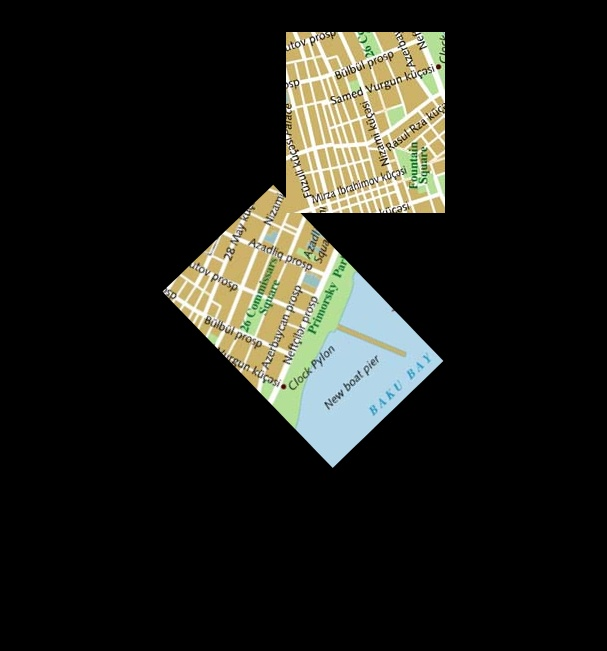
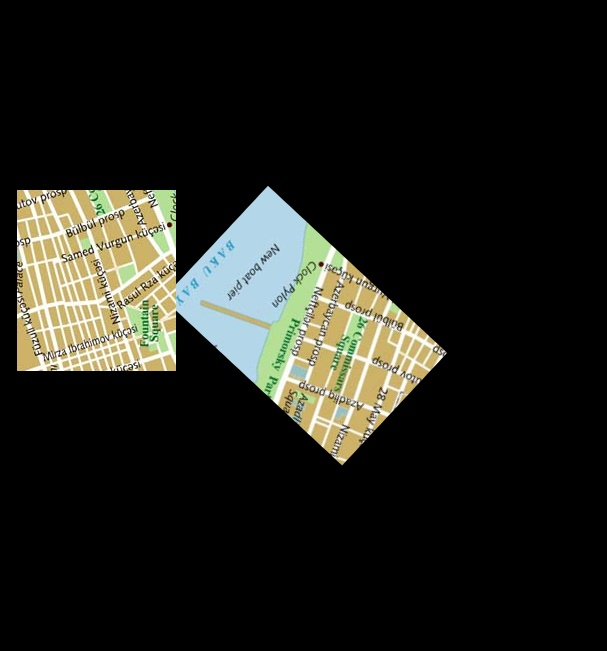
All the transformations are performed in Coordinate System

Changed region(s): [[0.0297, 0.0307, 0.7414, 0.7373]]

diff --git a/CoordinateSystem.py b/CoordinateSystem.py
@@ -21,6 +21,8 @@ class CoordinateSystem:
     rectangle1 = []
     rectangle2 = []
     centreOfRectangle2 = None
+    polygon1 = None
+    polygon2 = None
 
     def __init__(self,centre):
         self.centreOfRectangle2 = centre
@@ -30,6 +32,8 @@ class CoordinateSystem:
         # plt.clf()
         # plt.gca().invert_yaxis()
         self.rectangle1, self.rectangle2 = rectangles
+        self.polygon1 = Polygon(self.rectangle1)
+        self.polygon2 = Polygon(self.rectangle2)
         # rec1 = Polygon(self.rectangle1)	
         # rec2 = Polygon(self.rectangle2)	
         # x1, y1 =rec1.exterior.xy	
@@ -54,40 +58,23 @@ class CoordinateSystem:
         # end = time.time()
         # print("Rotate line: ",end-Start,"\n\n" )
         return rotated
-
-    def rotateTranslateCoordinates(self,coor,centreX,centreY,angle):
-        X,Y = coor
-        tempX = X - centreX
-        tempY = Y - centreY
-        rotatedX = tempX*math.cos(angle * math.pi/180) - tempY*math.sin(angle * math.pi/180)
-        rotatedY = tempX*math.sin(angle * math.pi/180) + tempY*math.cos(angle * math.pi/180)
-        x = rotatedX + centreX
-        y = rotatedY + centreY
-        return x,y
-
-    def rotateCornersOfImage2(self,angle):
-        # Start = time.time()
-        newRectangle = []
-        for coor in self.rectangle2:
-            newCorner = self.rotateTranslateCoordinates(coor,self.centreOfRectangle2[0],self.centreOfRectangle2[1],angle)
-            newRectangle.append(newCorner)
-        self.rectangle2 = newRectangle
-        # end = time.time()
-        # print("rotate corners: ",end-Start,"\n\n" )
     
     def shiftAnElement(self,geometric_figure, SHIFT_X,SHIFT_Y):
-        M = [1,0,0,1,-SHIFT_X,-SHIFT_Y]
+        M = [1,0,0,1,SHIFT_X,SHIFT_Y]
         rotated = affine_transform(geometric_figure,M)
         rotated = loads(dumps(rotated, rounding_precision=0))
         # x,y = rotated.coords.xy
         # plt.plot(x,y,color='magenta')
         return rotated
 
+    def transform(self,M,shape):
+        return affine_transform(shape,M)
+
     def get_intersection_polygon(self):
         # Start = time.time()
-        p1 = Polygon(self.rectangle1)
+        p1 = self.polygon1
         x1,y1= p1.exterior.xy
-        p2 = Polygon(self.rectangle2)
+        p2 = self.polygon2
         p2 = loads(dumps(p2, rounding_precision=0))
         x2,y2= p2.exterior.xy
         intersection = p1.intersection(p2)
@@ -97,9 +84,9 @@ class CoordinateSystem:
 
     def get_coordinates_in_polygon(self, polygon):
         #Start = time.time()
-        # p1 = Polygon(self.rectangle1)
-        # if (polygon.area <= p1.area*0.04):
-        #     return -1
+        p1 = Polygon(self.rectangle1)
+        if (polygon.area <= p1.area*0.04):
+            return -1
         polygon = loads(dumps(polygon, rounding_precision=0))
         rectangle = list(polygon.exterior.coords)
         bounds = polygon.bounds
@@ -139,7 +126,8 @@ class CoordinateSystem:
 
     def get_indecies_on_rotate(self, SHIFT_X, SHIFT_Y, thetha):
         if (thetha != 0):
-            self.rotateCornersOfImage2(thetha)
+            self.polygon2 = self.rotateElement(self.polygon2,thetha)
+        self.polygon1 = self.shiftAnElement(self.polygon1,SHIFT_X,SHIFT_Y)
         # x2, y2 =Polygon(self.rectangle2).exterior.xy	
         # plt.plot(x2, y2,color='red')
         intersection = self.get_intersection_polygon()
@@ -151,7 +139,7 @@ class CoordinateSystem:
         if coordintes_of_intersection == -1:
             return -1
         initialPolygon2 = self.rotateElement(coordintes_of_intersection,-thetha)
-        initialPolygon1 = self.shiftAnElement(coordintes_of_intersection,SHIFT_X,SHIFT_Y)
+        initialPolygon1 = self.shiftAnElement(coordintes_of_intersection,-SHIFT_X,-SHIFT_Y)
         # x2, y2 =initialPolygon2.coords.xy	
         # plt.plot(x2, y2,color='blue')
         numpy_coords_1 = self.get_numpy_coords(initialPolygon1)

diff --git a/ImageStitcher.py b/ImageStitcher.py
@@ -31,11 +31,10 @@ class ImageStitcher:
         self.img2_canvas_size = int(math.sqrt(math.pow(self.h2,2)+math.pow(self.w2,2)))
         print("H1: ",self.h1,"  W1: ",self.w1,"\nH2: ",self.h2,"  W2: ",self.w2)
         
-    def getCornersOfImages(self,SHIFT):
+    def getCornersOfImages(self):
         y_OffsetIMG2 = int((self.img2_canvas_size-self.h2)/2)
         x_OffsetIMG2 = int((self.img2_canvas_size-self.w2)/2)
-        SHIFT_X,SHIFT_Y, thetha = SHIFT
-        rectangle1 = [(SHIFT_X,SHIFT_Y),(SHIFT_X,self.h1+SHIFT_Y),(self.w1+SHIFT_X,self.h1+SHIFT_Y),(self.w1+SHIFT_X,SHIFT_Y)]
+        rectangle1 = [(0,0),(0,self.h1),(self.w1,self.h1),(self.w1,0)]
         rectangle2 = [(self.w1+x_OffsetIMG2,self.h1+y_OffsetIMG2),(self.w1+x_OffsetIMG2,self.h1+y_OffsetIMG2+self.h2),
         (self.w1+x_OffsetIMG2+self.w2,self.h1+y_OffsetIMG2+self.h2),(self.w1+x_OffsetIMG2+self.w2,self.h1+y_OffsetIMG2)]
         return rectangle1,rectangle2
@@ -44,9 +43,10 @@ class ImageStitcher:
         SHIFT_X,SHIFT_Y, thetha = SHIFT
         SHIFT_X, SHIFT_Y, thetha = int(SHIFT_X*(self.w1+self.w2)),int(SHIFT_Y*(self.h1+self.h2)),int(thetha*360)
         # SHIFT_X, SHIFT_Y, thetha = int(SHIFT_X),int(SHIFT_Y),int(thetha)
+        sys.stdout.write("\r    SHIFT_X:{0},    SHIFT_Y:{1},    Angle:{2}    ☚||||".format(SHIFT_X,SHIFT_Y,thetha))
         if (SHIFT_X>=self.w1+self.img2_canvas_size-self.img2_canvas_size*0.05 or SHIFT_Y>=self.h1+self.img2_canvas_size-self.img2_canvas_size*0.05 or SHIFT_Y<self.img2_canvas_size*0.05 or SHIFT_X<self.img2_canvas_size*0.05):
             return 255*3*self.w1*self.h1*self.h2*self.w2
-        self.coor_system.set_rectangles(self.getCornersOfImages((SHIFT_X,SHIFT_Y, 360-thetha)))
+        self.coor_system.set_rectangles(self.getCornersOfImages())
         coordinates_of_intersection = self.coor_system.get_indecies_on_rotate(SHIFT_X, SHIFT_Y,thetha)
         if (coordinates_of_intersection == -1):
             return 255*3*self.w1*self.h1*self.h2*self.w2

diff --git a/test_coor_system.py b/test_coor_system.py
@@ -27,15 +27,15 @@ def getCornersOfImages(SHIFT):
     (w1+x_OffsetIMG2+w2,h1+y_OffsetIMG2+h2),(w1+x_OffsetIMG2,h1+y_OffsetIMG2+h2)]
     return rectangle1,rectangle2
 
-rectangles = getCornersOfImages((286,32,316))
+rectangles = getCornersOfImages((272,61,281))
 print(rectangles)
 coor_system.set_rectangles(rectangles)
-num = coor_system.get_indecies_on_rotate(286,32,316)
+num = coor_system.get_indecies_on_rotate(272,61,281)
 
 st = ImageStitcher(img1,img2,False)
-st.drawImage(286,32,360-316,0)
+st.drawImage(272,61,360-281,0)
 st.set_canvas()
-print(st.calculateLoss((286,32,316)))
+print(st.calculateLoss((272,61,281)))
 #print(st.calculateLoss((92,92,45)))
 print(num[1][0])
 canvas[num[0][:]] = 240
